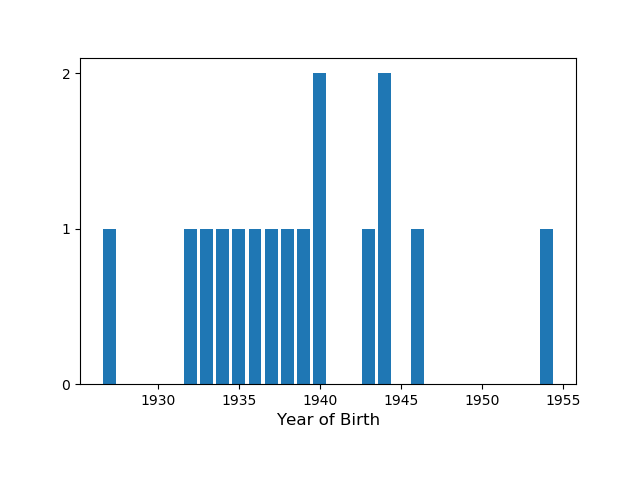
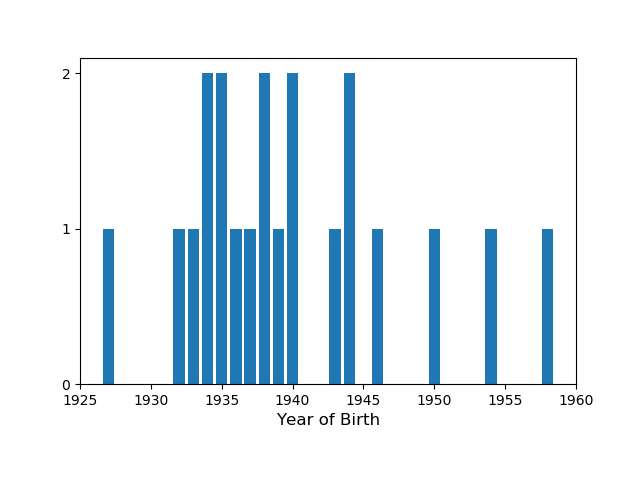
update covid19

Changed region(s): [[0.1875, 0.1562, 0.8125, 0.8438], [0.8438, 0.8125, 0.9375, 0.8438], [0.0938, 0.8125, 0.1562, 0.8438]]

diff --git a/content/blog/Covid19/index.md b/content/blog/Covid19/index.md
@@ -1,13 +1,13 @@
 --- 
  title: Covid19 in Aachen (Stadt und Städteregion) 
- date: "2020-04-01T11:07:48.000Z" 
+ date: "2020-04-02T11:17:35.000Z" 
 --- 
 The city of Aachen publishes (more or less) daily updates about Covid19. It's in the form of a daily press release, so I decided to collect this data to make it more usable for further processing ([google spread sheet](https://docs.google.com/spreadsheets/d/1Th4GSgmTpX4GtcebVDzIfRuCOu2cSOc2WJCORHcCw-Y)).
 
 Below is the development of cases in the Städteregion Aachen and the city of Aachen: 
 ![Cases of Covid19](cases.png)And the current death toll: 
 ![Deaths from Covid19](deaths.png)And the year of birth of the deceased. Their average (median) year of birth was 1938. Which corresponds to an average age of 82.
-![Year of Birth](year.png)And the gender distribution of the deceased. 75.0 % of victms were male.
+![Year of Birth](year.png)And the gender distribution of the deceased. 62.0 % of victms were male.
 ![Gender](gender.png)
 
 ## How this site is generated 
